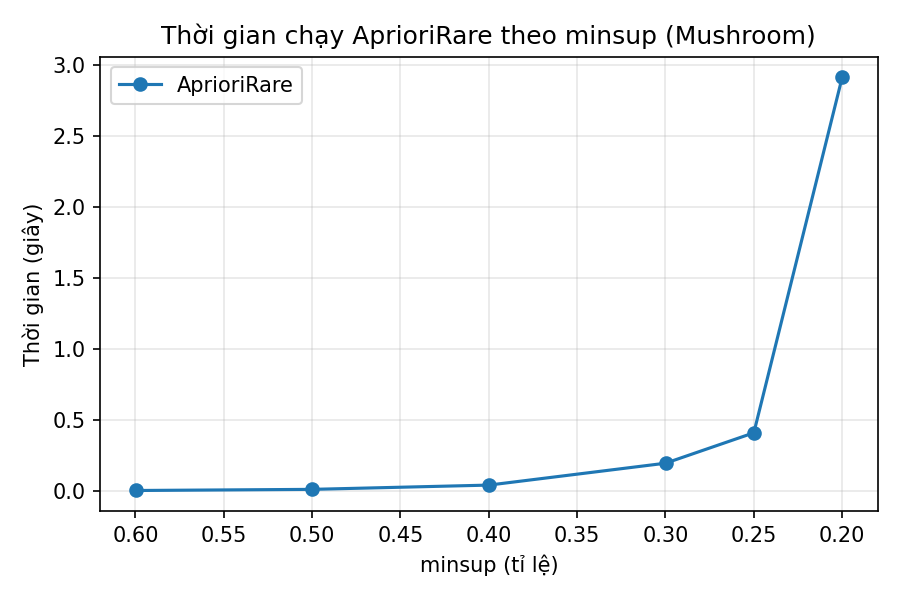
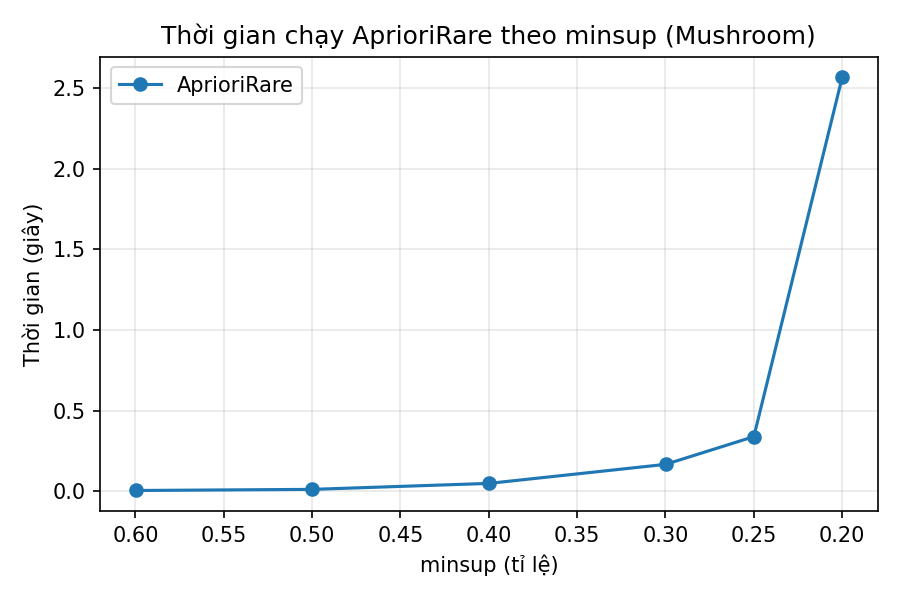
Add overview slide and enhance presentation structure
- Introduced a new slide detailing the flow of the problem using the running example, including a TikZ diagram for clarity.
- Updated existing slides to reflect the new structure and ensure smooth transitions between topics.
- Adjusted slide numbering and titles for consistency.
- Modified LaTeX code to include necessary packages for diagram rendering.
- Updated PowerPoint files to include the new slide and changes made in the presentation.

diff --git a/slides/generate_pptx.py b/slides/generate_pptx.py
@@ -58,6 +58,17 @@ SLIDES = [
      "CSDL 4 giao dịch theo bài giảng. Pasta có mặt mọi giao dịch — chi tiết này "
      "quay lại ở phần mẫu giả. (0:45)"),
 
+    ("Toàn cảnh: dòng chảy bài toán trên ví dụ", [
+        ("CSDL 4 giao dịch —[minsup]→ Khai thác mẫu hiếm —[minbond]→ Lọc tương quan → CORI", 0, ACCENT, True),
+        ("Bước 1 — khai thác hiếm: AprioriRare → mRI = {bread}, {lemon, cake}; AprioriInverse → PRI = {bread}, …", 0, None, False),
+        ("Bước 2 — lọc mẫu giả: loại {pasta, cake} vì lift = 1, bond = 0.5 (đi cùng nhau chỉ do pasta có mặt khắp nơi)", 0, RED, False),
+        ("Kết quả CORI: {bread}, {cake}, {orange, cake} — vừa hiếm vừa thật sự gắn kết", 0, GREEN, True),
+        ("Các phần sau đi sâu vào từng khối trên chính ví dụ này", 0, None, False),
+    ], None,
+     "Bản đồ toàn bài trên ví dụ 4 giao dịch: từ CSDL thô → định nghĩa hiếm (minsup) "
+     "→ thuật toán khai thác → độ đo lọc mẫu giả → CORI. Khán giả định vị được mình "
+     "đang ở khối nào trong suốt phần còn lại. (0:40)"),
+
     ("Ba định nghĩa mẫu hiếm", [
         ("Infrequent: sup < minsup — bùng nổ, chứa cả sup = 0", 0, None, False),
         ("Minimal rare (mRI): hiếm, mọi tập con đều phổ biến", 0, None, True),

diff --git a/slides/SLIDE_OUTLINE.md b/slides/SLIDE_OUTLINE.md
@@ -1,7 +1,7 @@
 # Slide Outline — Khai thác mẫu hiếm (Rare Pattern Mining)
 
 - **Nguồn**: `bao_cao_rare_pattern_mining.md` (bài tập lớn môn Khai thác dữ liệu nâng cao)
-- **Loại talk**: oral, 15 phút, 17 slides
+- **Loại talk**: oral, 15 phút, 18 slides
 - **Ngôn ngữ**: tiếng Việt — engine xelatex
 - **Tỉ lệ**: 16:9 · **Màu**: NeurIPS (tím `#8B5CF6` / xanh `#2563EB`)
 - **Hình**: `figures/mushroom_experiments.png`, `figures/mushroom_runtime.png`
@@ -13,18 +13,21 @@
 | 3 | Động cơ: mẫu hiếm nhưng giá trị cao | 1:00 | 1:35 |
 | 4 | Vấn đề: hạ minsup là không đủ | 1:00 | 2:35 |
 | 5 | Ví dụ (4 giao dịch) | 0:45 | 3:20 |
-| 6 | Ba định nghĩa mẫu hiếm | 1:15 | 4:35 |
-| 7 | AprioriRare: tìm biên hiếm tối thiểu | 1:15 | 5:50 |
-| 8 | AprioriInverse: thu hẹp ngay từ đầu | 1:00 | 6:50 |
-| 9 | Mẫu giả: phổ biến ≠ đáng tin | 0:45 | 7:35 |
-| 10 | bond và all-confidence | 1:00 | 8:35 |
-| 11 | Null-invariance: vì sao lift thất bại | 0:45 | 9:20 |
-| 12 | CORI: hiếm + tương quan trong một lần duyệt | 1:15 | 10:35 |
-| 13 | Cài đặt & kiểm chứng 100% | 1:00 | 11:35 |
-| 14 | Exp A — Cái giá của việc đi xuyên vùng phổ biến | 1:00 | 12:35 |
-| 15 | Exp B & C — PRI rẻ, CORI giàu ngữ nghĩa | 1:15 | 13:50 |
-| 16 | Kết luận: ba đánh đổi | 0:50 | 14:40 |
-| 17 | Cảm ơn & Hỏi đáp | 0:20 | 15:00 |
+| 6 | Toàn cảnh: dòng chảy bài toán trên ví dụ | 0:40 | 4:00 |
+| 7 | Ba định nghĩa mẫu hiếm | 1:15 | 5:15 |
+| 8 | AprioriRare: tìm biên hiếm tối thiểu | 1:15 | 6:30 |
+| 9 | AprioriInverse: thu hẹp ngay từ đầu | 1:00 | 7:30 |
+| 10 | Mẫu giả: phổ biến ≠ đáng tin | 0:45 | 8:15 |
+| 11 | bond và all-confidence | 1:00 | 9:15 |
+| 12 | Null-invariance: vì sao lift thất bại | 0:45 | 10:00 |
+| 13 | CORI: hiếm + tương quan trong một lần duyệt | 1:15 | 11:15 |
+| 14 | Cài đặt & kiểm chứng 100% | 1:00 | 12:15 |
+| 15 | Exp A — Cái giá của việc đi xuyên vùng phổ biến | 1:00 | 13:15 |
+| 16 | Exp B & C — PRI rẻ, CORI giàu ngữ nghĩa | 1:15 | 14:30 |
+| 17 | Kết luận: ba đánh đổi | 0:50 | 15:20 |
+| 18 | Cảm ơn & Hỏi đáp | 0:20 | 15:40 |
+
+> Tổng 15:40 — nếu cần đúng 15:00: rút slide 6 còn 0:20 và slide 3 còn 0:40.
 
 ---
 
@@ -73,7 +76,15 @@
 
 **Nói**: Giới thiệu CSDL ví dụ của bài giảng — mọi thuật toán sau đều minh họa trên đây. *(0:45)*
 
-## Slide 6 — Ba định nghĩa mẫu hiếm
+## Slide 6 — Toàn cảnh: dòng chảy bài toán trên ví dụ
+
+- Sơ đồ 4 khối: **CSDL giao dịch** —(minsup)→ **Khai thác mẫu hiếm** —(minbond)→ **Lọc tương quan** → **CORI**
+- Dưới mỗi khối: kết quả cụ thể trên ví dụ (mRI/PRI; loại {pasta, cake}; {bread}, {cake}, {orange, cake})
+- Mỗi khối = một phần tiếp theo của bài
+
+**Nói**: Bản đồ toàn bài trên chính ví dụ 4 giao dịch — khán giả định vị được đang ở khối nào trong suốt phần còn lại. *(0:40)*
+
+## Slide 7 — Ba định nghĩa mẫu hiếm
 
 - **Infrequent**: sup < minsup — bùng nổ, chứa sup = 0
 - **Minimal rare (mRI)**: hiếm, mọi tập con đều phổ biến — *biên dưới vùng hiếm*
@@ -84,7 +95,7 @@
 
 **Nói**: Tâm điểm lý thuyết — nhấn hình ảnh "đường biên" trong dàn itemset. → "Mỗi định nghĩa có một thuật toán tương ứng." *(1:15)*
 
-## Slide 7 — AprioriRare: tìm biên hiếm tối thiểu
+## Slide 8 — AprioriRare: tìm biên hiếm tối thiểu
 
 - Duyệt theo mức như Apriori
 - Ứng viên sống sót qua prune mà **không phổ biến → chính là mRI**
@@ -94,7 +105,7 @@
 
 **Nói**: Giải thích điểm tinh tế: qua prune nghĩa là mọi tập con đều phổ biến → tự động là mRI. Gieo trước nhược điểm chi phí — Exp A sẽ định lượng. *(1:15)*
 
-## Slide 8 — AprioriInverse: thu hẹp ngay từ đầu
+## Slide 9 — AprioriInverse: thu hẹp ngay từ đầu
 
 - Hai ngưỡng (minsup, maxsup)
 - **Loại mọi item phổ biến ngay bước khởi tạo**
@@ -104,7 +115,7 @@
 
 **Nói**: Đối lập với AprioriRare: không gian nhỏ hơn hẳn nhưng định nghĩa hẹp hơn. Ví dụ mẫu lai bị bỏ sót: {bệnh hiếm, triệu chứng phổ biến}. *(1:00)*
 
-## Slide 9 — Mẫu giả: phổ biến ≠ đáng tin
+## Slide 10 — Mẫu giả: phổ biến ≠ đáng tin
 
 - {pasta, cake} xuất hiện 50% giao dịch
 - Nhưng pasta có mặt trong **mọi** giao dịch
@@ -113,7 +124,7 @@
 
 **Nói**: Chuyển mạch sang nửa thứ hai của câu chuyện: hiếm thôi chưa đủ, còn cần "thật". *(0:45)*
 
-## Slide 10 — bond và all-confidence
+## Slide 11 — bond và all-confidence
 
 - **bond(X) = sup(X) / dsup(X)** — tỉ lệ giao dịch "liên quan" chứa toàn bộ X
 - bond = 1: các mục **luôn** đi cùng nhau
@@ -123,7 +134,7 @@
 
 **Nói**: Hai độ đo chính của bài giảng. Nhấn tính anti-monotone vì CORI sẽ dùng nó để cắt tỉa. *(1:00)*
 
-## Slide 11 — Null-invariance: vì sao lift thất bại
+## Slide 12 — Null-invariance: vì sao lift thất bại
 
 - Null transaction: giao dịch không chứa mục nào của mẫu
 - χ², lift bị **bóp méo** bởi hàng triệu giao dịch không liên quan
@@ -132,7 +143,7 @@
 
 **Nói**: Lý do sâu xa để chọn bond/allconf cho mẫu hiếm — dữ liệu thưa toàn null transactions. *(0:45)*
 
-## Slide 12 — CORI: hiếm + tương quan trong một lần duyệt
+## Slide 13 — CORI: hiếm + tương quan trong một lần duyệt
 
 - Rare correlated: **sup(X) < maxsup VÀ bond(X) ≥ minbond**
 - Hai ràng buộc đối ngẫu: hiếm = monotone · bond = anti-monotone
@@ -142,7 +153,7 @@
 
 **Nói**: Đỉnh lý thuyết của talk — hai dòng kỹ thuật hội tụ. Giải thích phép giao/hợp TID khi nối hai itemset. *(1:15)*
 
-## Slide 13 — Cài đặt & kiểm chứng 100%
+## Slide 14 — Cài đặt & kiểm chứng 100%
 
 - Python 3.13, **chỉ thư viện chuẩn**; TID-set dùng chung cho cả 3 thuật toán
 - **19 assert** đối chiếu từng con số kỳ vọng trên ví dụ — **100% ĐẠT**
@@ -151,16 +162,16 @@
 
 **Nói**: 19 assert phủ toàn bộ bảng FIM, ba thuật toán và các độ đo — tất cả khớp kết quả tính tay trên ví dụ minh họa. *(1:00)*
 
-## Slide 14 — Exp A: cái giá của việc đi xuyên vùng phổ biến
+## Slide 15 — Exp A: cái giá của việc đi xuyên vùng phổ biến
 
 - **Hình**: `mushroom_runtime.png` (≥60% slide)
 - UCI Mushroom: 8 124 giao dịch, 118 item, dày
 - minsup 0.6 → 0.2: #frequent tăng **~890×** (51 → 45 391)
 - #mRI chỉ tăng **~8×** (122 → 986)
 
-**Nói**: mRI là biểu diễn gọn, nhưng chi phí bị chi phối bởi vùng phổ biến — đúng như lý thuyết slide 7 dự báo. *(1:00)*
+**Nói**: mRI là biểu diễn gọn, nhưng chi phí bị chi phối bởi vùng phổ biến — đúng như lý thuyết slide AprioriRare dự báo. *(1:00)*
 
-## Slide 15 — Exp B & C: PRI rẻ, CORI giàu ngữ nghĩa
+## Slide 16 — Exp B & C: PRI rẻ, CORI giàu ngữ nghĩa
 
 - **Hình**: `mushroom_experiments.png` (≥60% slide)
 - AprioriInverse: **mili-giây** — alphabet hiếm rất nhỏ (không phải benchmark cùng điều kiện)
@@ -169,7 +180,7 @@
 
 **Nói**: Mẫu bond = 1 trên Mushroom: 36 cây nấm mùi mốc *luôn* đồng thời không vòng cuống + cuống màu quế — loại tri thức FIM không bao giờ chạm tới. *(1:15)*
 
-## Slide 16 — Kết luận: ba đánh đổi
+## Slide 17 — Kết luận: ba đánh đổi
 
 - **mRI gọn nhưng đắt** — phải duyệt toàn vùng phổ biến
 - **PRI rẻ nhưng hẹp** — bỏ sót mẫu lai
@@ -178,7 +189,7 @@
 
 **Nói**: Thông điệp mang về: không có định nghĩa hiếm "đúng" duy nhất — chỉ có đánh đổi; null-invariance là bắt buộc với dữ liệu thưa. *(0:50)*
 
-## Slide 17 — Cảm ơn & Hỏi đáp
+## Slide 18 — Cảm ơn & Hỏi đáp
 
 - Tóm tắt 1 dòng: 3 định nghĩa · 3 thuật toán · kiểm chứng 100% · Mushroom
 - Mã nguồn & kết quả: `advantage_data_mining/code`, `results/`

diff --git a/results/mushroom_results.md b/results/mushroom_results.md
@@ -10,36 +10,36 @@
 
 | minsup (tỉ lệ) | minsup (abs) | #Frequent | #mRI | Thời gian (s) |
 |---|---|---|---|---|
-| 0.6 | 4874 | 51 | 122 | 0.005 |
-| 0.5 | 4062 | 153 | 153 | 0.013 |
-| 0.4 | 3249 | 565 | 258 | 0.043 |
-| 0.3 | 2437 | 2733 | 389 | 0.197 |
-| 0.25 | 2031 | 5511 | 623 | 0.411 |
-| 0.2 | 1624 | 45391 | 986 | 2.912 |
+| 0.6 | 4874 | 51 | 122 | 0.004 |
+| 0.5 | 4062 | 153 | 153 | 0.011 |
+| 0.4 | 3249 | 565 | 258 | 0.048 |
+| 0.3 | 2437 | 2733 | 389 | 0.166 |
+| 0.25 | 2031 | 5511 | 623 | 0.338 |
+| 0.2 | 1624 | 45391 | 986 | 2.566 |
 
 ## Exp B — AprioriInverse
 
 | minsup | maxsup | #PRI | Kích thước max | Thời gian (s) |
 |---|---|---|---|---|
 | 0.01 | 0.05 | 71 | 4 | 0.001 |
-| 0.02 | 0.05 | 22 | 3 | 0.001 |
-| 0.01 | 0.1 | 153 | 4 | 0.004 |
+| 0.02 | 0.05 | 22 | 3 | 0.0 |
+| 0.01 | 0.1 | 153 | 4 | 0.003 |
 | 0.02 | 0.1 | 52 | 3 | 0.003 |
 | 0.05 | 0.1 | 17 | 1 | 0.001 |
-| 0.01 | 0.2 | 533 | 5 | 0.012 |
-| 0.02 | 0.2 | 189 | 4 | 0.009 |
+| 0.01 | 0.2 | 533 | 5 | 0.016 |
+| 0.02 | 0.2 | 189 | 4 | 0.007 |
 | 0.05 | 0.2 | 46 | 2 | 0.004 |
 
 ## Exp C — CORI (maxsup = 0.1, max_size = 4)
 
 | minbond | #Rare correlated | Kích thước max | Thời gian (s) |
 |---|---|---|---|
-| 0.95 | 90 | 4 | 0.544 |
-| 0.9 | 93 | 4 | 0.538 |
-| 0.8 | 93 | 4 | 0.549 |
-| 0.7 | 93 | 4 | 0.719 |
-| 0.6 | 94 | 4 | 0.731 |
-| 0.5 | 104 | 4 | 0.969 |
+| 0.95 | 90 | 4 | 0.302 |
+| 0.9 | 93 | 4 | 0.298 |
+| 0.8 | 93 | 4 | 0.306 |
+| 0.7 | 93 | 4 | 0.315 |
+| 0.6 | 94 | 4 | 0.33 |
+| 0.5 | 104 | 4 | 0.395 |
 
 ## 10 mẫu hiếm tương quan tiêu biểu (|X| ≥ 2, minbond = 0.9)
 

diff --git a/README.md b/README.md
@@ -23,6 +23,8 @@ advantage_data_mining/
 ## Chạy lại thực nghiệm
 
 ```bash
+
+source  ~/.venvs/advantage_data_mining/bin/activate
 cd code && python3 run_experiments.py
 ```
 